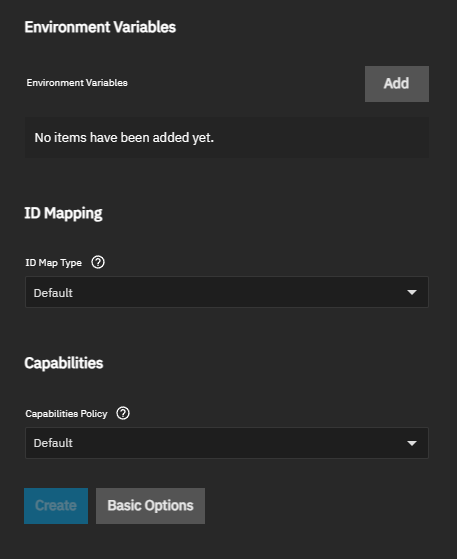
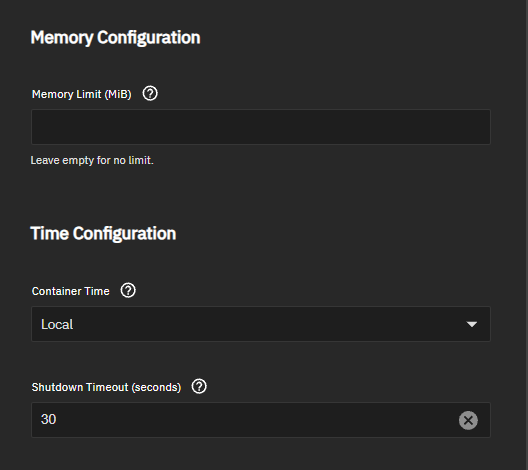
DOCS-2818 / 28 / DOCS-2818 Update Out of Date Container Settings (#4922)
* DOCS-2818 Update Out of Date Container Settings

This PR updates the ContainersScreens.md article with new screenshots showing settings added in  the 27.0.0 release not previously documented, and corrects the Name settings rules from Instances to current container rules. It updates additional settings content to what was found in a code review for 27 settings.

Backport to 27.

* fix typo

---------

diff --git a/content/SCALE/Containers/ContainersScreens.md b/content/SCALE/Containers/ContainersScreens.md
@@ -1,14 +1,14 @@
 ---
 title: "Containers Screens"
-description: "Provides information on the Containers screens and settings to add containers or virtual machines (VMs) to your TrueNAS system."
+description: "Provides information on the Containers screens and settings to add containers to your TrueNAS system."
 weight: 50
 aliases:
  - /scale/scaleuireference/containersscreens/
  - /docs/scale/scaleuireference/instancesscreens/
 tags:
- - vm
- - container
- - instances
+ - containers
+ - gpus
+ - usbs
 doctype: reference
 ---
 
@@ -125,14 +125,14 @@ The **Details for *Container*** cards show information and configuration options
 
 ### General Info Card
 
-The **General Info** card shows container configuration details including **Description**, **Autostart**, **Dataset**, **CPU Set**, **Container Time**, **Shutdown Timeout**, **Init Process** command, and **Capabilities Policy**.
+The **General Info** card shows container configuration details including **Description**, **Autostart**, **Dataset**, **CPU Set**, **Memory Limit**, **Container Time**, **Shutdown Timeout**, **Init Process** command, and **Capabilities Policy**.
 The **Init Working Directory**, **Init User**, and **Init Group** also show when configured.
 
 {{< trueimage src="/images/SCALE/Virtualization/GeneralInfoWidget.png" alt="General Info Card" id="General Info Card" >}}
 
 **[Delete](#delete-container-dialog)** opens the **Delete Container** dialog.
 
-**[Edit](#edit-container-screen)** opens an **Edit Container: *Container*** configuration screen populated with editable settings also found on the install wizard screen for the container.
+**[Edit](#edit-container-screen)** opens an **Edit Container: *Container*** configuration screen populated with editable settings also found on the **Add Container** screen.
 
 #### Delete Container Dialog
 
@@ -151,7 +151,7 @@ The **USB Devices** card shows USB devices attached to the container, allowing h
 
 {{< trueimage src="/images/SCALE/Virtualization/DevicesWidget.png" alt="USB Devices Card" id="USB Devices Card" >}}
 
-**Add** shows a list of available USB devices that can be attached to the container.
+**Add** shows a list of available USB devices that can be attached to the container. **Add** offers the by port and by vendor and product ID options. It is disabled while the container is running.
 
 USB devices appear in the list only if they are physically connected to the TrueNAS system, are not USB hubs, and provide the required information to TrueNAS (bus, device number, vendor ID, and product ID).
 
@@ -242,7 +242,7 @@ The **Add NIC Device** and **Edit NIC Device** dialogs configure network interfa
 {{< truetable >}}
 | Setting | Description |
 |---------|-------------|
-| **NIC Type** | Sets the NIC type. Options are *VirtIO* or *Intel e82585 (e1000)*. |
+| **NIC Type** | Sets the NIC type. Options are *VirtIO* or *Intel e82545 (e1000)*. |
 | **Use Default Mac Address** | Sets TrueNAS to automatically assign a MAC address. Only available when adding a new NIC. |
 | **Mac Address** | Specifies a custom MAC address. Only shows while adding and when **Use Default Mac Address** is not selected. If editing a NIC, leave empty to use the default MAC address. |
 | **Trust Guest RX Filters** | Sets whether to trust guest OS receive filter settings for better performance. Shows when **NIC Type** is set to **VirtIO**. Applies only to a VirtIO NIC added from **MACVLAN NICS**. For a NIC from **BRIDGED NICS**, TrueNAS rejects or ignores it. |
@@ -279,7 +279,7 @@ The basic settings are always visible and configure essential container properti
 {{< truetable >}}
 | Setting | Description |
 |---------|-------------|
-| **Name** | Specifies a required name for the container. Names consist of upper or lower case alphanumeric or allowed special characters. |
+| **Name** | Specifies a required name for the container. Names must be a valid hostname of up to 100 total characters: 1-63 characters per hostname section, using only letters, digits and hyphens within each section, and can include dots to separate the sections. A hostname section cannot start or end with a hyphen. Names cannot be an IPv4 address, which is four sections of numbers (1 to 3 digits each) separated by dots, such as 192.168.1.10. Other names made of numbers, such as 123 or 10.20.30, are accepted. |
 | **Description** | Specifies an optional description about the container or how it is used. |
 | **Autostart** | Sets the container to automatically start when the system boots. |
 | **Image** | Specifies the operating system image file for the container. |
@@ -318,6 +318,18 @@ The **CPU Configuration** settings bind the container to specific CPU cores.
 | **CPU Set** | Specifies CPU core numbers to allocate to the container (e.g., *0,1,2* or *0-3*). Leave blank to allow the container access to all host CPU cores. |
 {{< /truetable >}}
 
+{{< trueimage src="/images/SCALE/Virtualization/AddContainerAdvanced2.png" alt="Add Container Advanced Options - Part 2" id="Add Container Advanced Options - Part 2" >}}
+
+#### Memory Configuration
+
+The **Memory Configuration** section has one setting.
+
+{{< truetable >}}
+| Setting | Description |
+|---------|-------------|
+| **Memory Limit (MiB)** | Sets a hard memory limit for the container to the value entered. When left blank, no limit is set. Changes apply the next time the container starts. |
+{{< /truetable >}}
+
 #### Time Configuration
 
 The **Time Configuration** settings control container time zone and shutdown behavior.
@@ -326,12 +338,14 @@ The **Time Configuration** settings control container time zone and shutdown beh
 | Setting | Description |
 |---------|-------------|
 | **Container Time** | Sets the time zone for the container. **Local** uses the host system time. **UTC** uses Coordinated Universal Time. |
-| **Shutdown Timeout** | Specifies the number of seconds to wait for the container to shut down gracefully before forcing termination. Default is 30 seconds. |
+| **Shutdown Timeout (seconds)** | Specifies the number of seconds to wait for the container to shut down gracefully before forcing termination. Default is 30 seconds, and the range is 5 to 300. |
 {{< /truetable >}}
+
+{{< trueimage src="/images/SCALE/Virtualization/AddContainerAdvanced3.png" alt="Add Container Advanced Options - Part 3" id="Add Container Advanced Options - Part 3" >}}
 
 #### Init Process
 
-The **Init Process** settings configure the initialization process for the container.  
+The **Init Process** settings configure the initialization process for the container. 
 
 {{< truetable >}}
 | Setting | Description |
@@ -341,8 +355,6 @@ The **Init Process** settings configure the initialization process for the conta
 | **Init User** | Specifies the user to run the init process as. |
 | **Init Group** | Specifies the group to run the init process as. |
 {{< /truetable >}}
-
-{{< trueimage src="/images/SCALE/Virtualization/AddContainerAdvanced2.png" alt="Add Container Advanced Options - Part 2" id="Add Container Advanced Options - Part 2" >}}
 
 #### Environment Variables
 
@@ -356,6 +368,8 @@ The **Environment Variables** settings configure optional environment variables 
 | **Name** | Specifies the environment variable name (e.g., *PATH*, *HOME*). |
 | **Value** | Specifies the value for the environment variable. |
 {{< /truetable >}}
+
+{{< trueimage src="/images/SCALE/Virtualization/AddContainerAdvanced4.png" alt="Add Container Advanced Options - Part 4" id="Add Container Advanced Options - Part 4" >}}
 
 #### USB Devices
 
@@ -380,6 +394,7 @@ This setting is available at container creation only and cannot be changed after
 | Setting | Description |
 |---------|-------------|
 | **ID Map Type** | Sets the UID/GID mapping mode for the container from the options:<ul><li>**Default** (Recommended) - Maps the container root (UID 0) to the unprivileged host user **truenas_container_unpriv_root** (UID 2147000001). All other container UIDs are offset by the same amount (e.g., container UID 1000 becomes host UID 2147001001). Provides security isolation while allowing normal container operations.</li><li>**Isolated** - Uses the same offset as default but shifts the base further by a per-container slice value, ensuring no two containers share host UID ranges. Use when multiple containers access the same host datasets and non-overlapping UID ranges are required. TrueNAS automatically assigns a unique slice if none is specified.</li><li>**Privileged** - Applies no UID/GID mapping. Container UIDs map directly to the same UIDs on the host. Container root (UID 0) becomes host root. Use only when an application explicitly requires direct UID mapping.</li></ul> |
+| **ID Map Slice** | Sets the offset value when the ID map is set to **Isolated**. Range is 1 to 999. Shows after setting **ID Map Type** to **Isolated**. |
 {{< /truetable >}}
 
 {{< hint type=warning title="Privileged ID Mapping Warning" >}}
@@ -409,9 +424,11 @@ See [Containers Cards](#containers-cards) for information on configuring devices
 
 The **Edit Container: *Container*** screen includes most settings from the **[Add Container Screen](#add-container-screen)** except **Image**, **Pool**, **USB Devices**, and **ID Map Type**.
 
-Settings available in edit mode include **Name**, **Description**, **Autostart**, and these **Advanced Options**: **CPU Configuration**, **Time Configuration**, **Init Process**, **Environment Variables**, and **Capabilities**.  
+Settings available in edit mode include **Name**, **Description**, **Autostart**, and these **Advanced Options**: **CPU Configuration**, **Memory Configuration**, **Time Configuration**, **Init Process**, **Environment Variables**, and **Capabilities**. Use the [USB Devices card](#usb-devices-card) to add or edit a USB device for an existing container.
 
 Note that the **Init Process** command field cannot be changed after creation, but **Init Working Directory**, **Init User**, and **Init Group** remain editable.
+
+The container can only be renamed while it is stopped.
 
 Device, disk, network, and other settings are configured via the [Containers Cards](#containers-cards) on the **Containers** screen.
 
